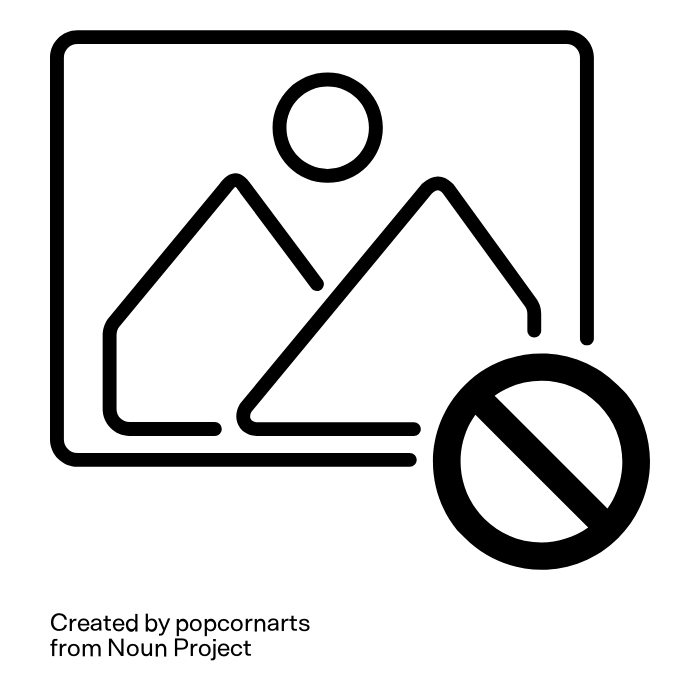
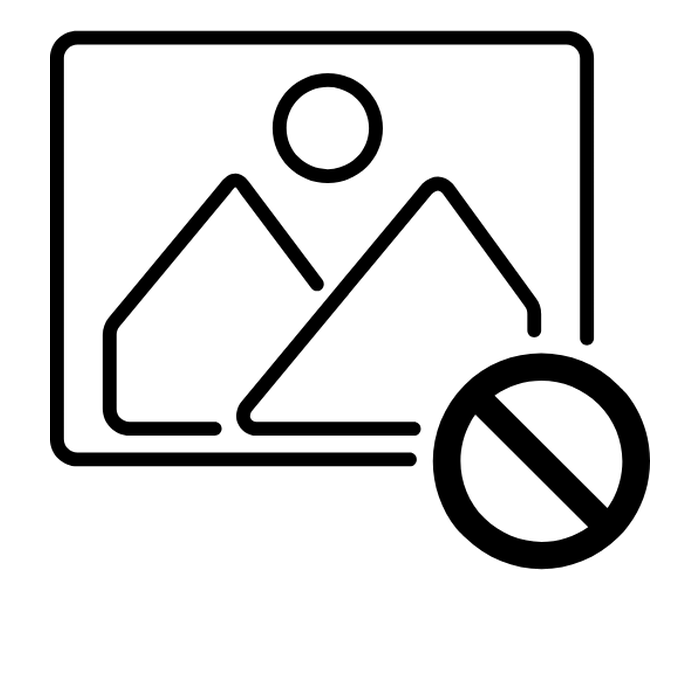
기본 이미지 하단 문구 제거

Changed region(s): [[0.06, 0.87, 0.45, 0.96], [0.36, 0.6, 0.6, 0.63], [0.45, 0.24, 0.48, 0.27]]

diff --git a/db/fixtures/common/README.md b/db/fixtures/common/README.md
@@ -1,5 +1,5 @@
 # 기본 이미지
 
-[no-photo.png](no-photo.png)는 공통 대체 이미지 파일이다.
+[no-photo.png](no-photo.png)는 원본 아이콘을 700×700 투명 캔버스에 배치한 공통 대체 이미지다.
 
 “no photo” by popcornarts, [Noun Project](https://thenounproject.com/icon/no-photo-6824747/), [CC BY 3.0](https://creativecommons.org/licenses/by/3.0/).
